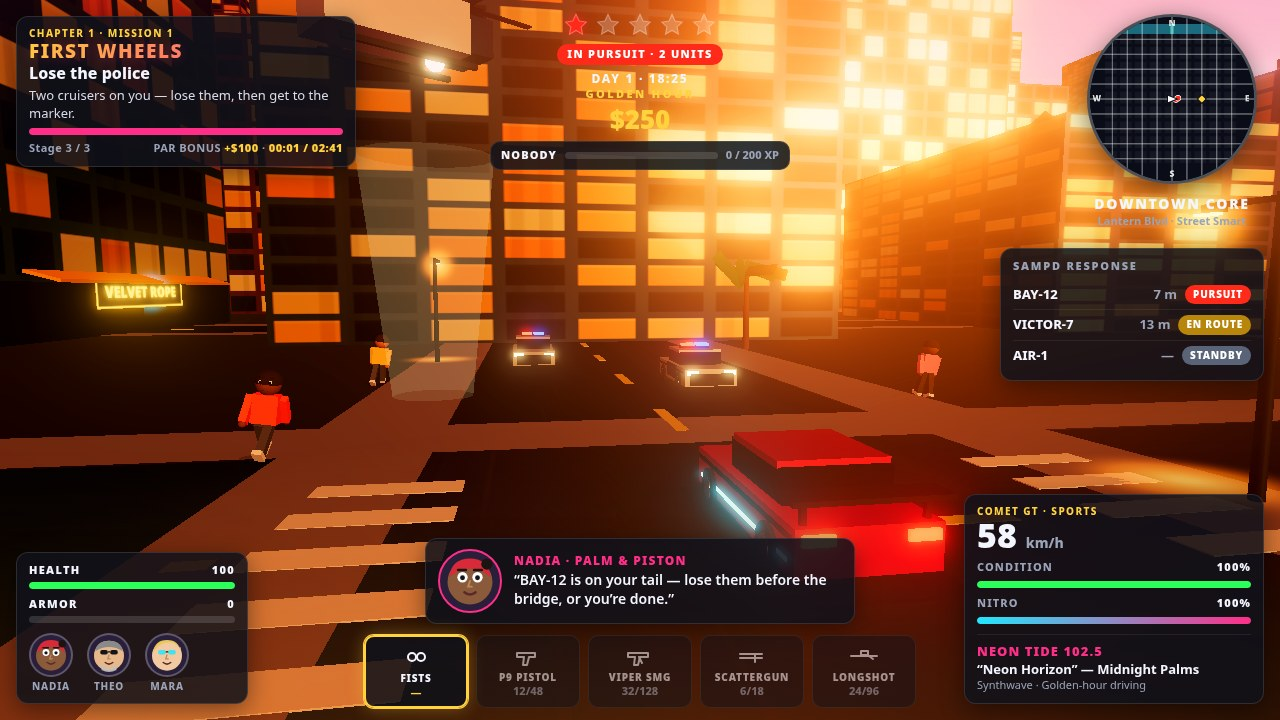
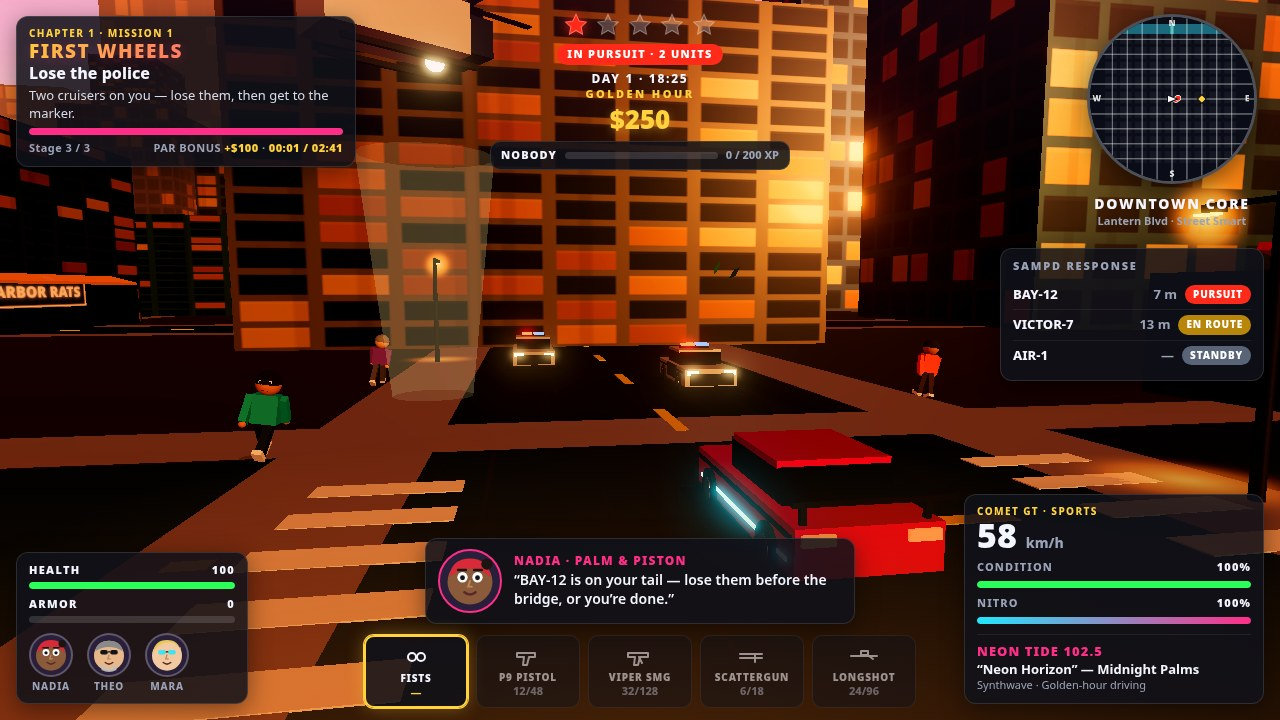
Calm the building lights (Mu feedback 20:35, recording 01a1f3e5)
Lit windows were near-white gold and bloomed into a blazing wall that
overpowered the action. Fix, keeping the golden-hour look:
- windowTexture: lit panes dimmed to muted ambers (#c98a3d etc.),
  white highlight strip 0.25 -> 0.08
- lit fractions cut by ~a third (facades 0.4-0.6 -> 0.28-0.38,
  Glass Spire 0.65 -> 0.4, skyline 0.35 -> 0.22)
- bloom threshold 0.5 -> 0.8 (windows stop blooming), strength
  0.32 -> 0.22, radius 0.72 -> 0.55; sun / muzzle flash / police
  lights still bloom
- neon sign emissives + glow sprites calmed (shop signs 1.4 -> 0.9,
  SAN AMARO 1.8 -> 1.1, LIFT BRIDGE 1.6 -> 1.1, spire tip 2 -> 1.3,
  bridge lamps 3 -> 2, street lamps 2.4 -> 1.6)
Sun, sky, exposure and warm lights untouched. 4 shots retaken,
0 console errors, HUD inside frame at 1280x720 and 1920x1080.

diff --git a/game/src/city.js b/game/src/city.js
@@ -40,9 +40,11 @@ function windowTexture(base, lit) {
         const isLit = rand() < lit;
         const px = x * cw + 3, py = y * ch + 4;
         if (isLit) {
-          const warm = pick(['#ffd27a', '#ffb84d', '#ffe9a8', '#ff9a3d']);
+          // Calm amber: dimmed so lit windows read as warm rooms, not a
+          // blazing wall (the old near-white golds blew out under bloom).
+          const warm = pick(['#c98a3d', '#b87a2e', '#d9a55a', '#a86a2a']);
           g.fillStyle = warm; g.fillRect(px, py, cw - 6, ch - 8);
-          g.fillStyle = 'rgba(255,255,255,.25)';
+          g.fillStyle = 'rgba(255,255,255,.08)';
           g.fillRect(px, py, cw - 6, 3);
         } else {
           g.fillStyle = 'rgba(8,12,26,.85)'; g.fillRect(px, py, cw - 6, ch - 8);
@@ -170,11 +172,11 @@ function makeLamp(x, z, parent) {
   const arm = box(1.4, 0.1, 0.1, MAT.lampPole, 0.6, 5.1, 0, g);
   const head = box(0.5, 0.14, 0.24, MAT.lampPole, 1.25, 5.05, 0, g);
   const bulb = new THREE.Mesh(new THREE.BoxGeometry(0.4, 0.06, 0.18),
-    new THREE.MeshStandardMaterial({ color: 0xffe9a8, emissive: 0xffc95e, emissiveIntensity: 2.4 }));
+    new THREE.MeshStandardMaterial({ color: 0xffe9a8, emissive: 0xffc95e, emissiveIntensity: 1.6 }));
   bulb.position.set(1.25, 4.96, 0); g.add(bulb);
-  addGlow(g, 1.25, 4.9, 0, 2.6, glowTexWarm);
+  addGlow(g, 1.25, 4.9, 0, 2, glowTexWarm);
   const pool = new THREE.Mesh(new THREE.CircleGeometry(2.6, 20),
-    new THREE.MeshBasicMaterial({ map: glowTexWarm, transparent: true, blending: THREE.AdditiveBlending, depthWrite: false, opacity: 0.5 }));
+    new THREE.MeshBasicMaterial({ map: glowTexWarm, transparent: true, blending: THREE.AdditiveBlending, depthWrite: false, opacity: 0.3 }));
   pool.rotation.x = -Math.PI / 2; pool.position.set(1.25, 0.06, 0); g.add(pool);
   g.position.set(x, 0, z);
   parent.add(g);
@@ -302,14 +304,14 @@ export function buildCity(scene) {
     const beam = box(2.2, 1.8, 30, MAT.steelDark, sx, 26.5, BRIDGE.z, bridge);
     // red warning light on top
     const lamp = new THREE.Mesh(new THREE.SphereGeometry(0.5, 8, 6),
-      new THREE.MeshStandardMaterial({ color: 0xff2a1a, emissive: 0xff2a1a, emissiveIntensity: 3 }));
+      new THREE.MeshStandardMaterial({ color: 0xff2a1a, emissive: 0xff2a1a, emissiveIntensity: 2 }));
     lamp.position.set(sx, 28, BRIDGE.z); bridge.add(lamp);
-    addGlow(bridge, sx, 28, BRIDGE.z, 5, glowTexPink);
+    addGlow(bridge, sx, 28, BRIDGE.z, 3.5, glowTexPink);
   }
   // crossbeam sign: "LIFT BRIDGE" in neon
   const signTex = signTexture('LIFT BRIDGE', '#22e6ff', '#0d1520');
   const sign = new THREE.Mesh(new THREE.PlaneGeometry(11, 2.75),
-    new THREE.MeshStandardMaterial({ map: signTex, emissive: 0xffffff, emissiveMap: signTex, emissiveIntensity: 1.6, transparent: true }));
+    new THREE.MeshStandardMaterial({ map: signTex, emissive: 0xffffff, emissiveMap: signTex, emissiveIntensity: 1.1, transparent: true }));
   sign.position.set(0, 24.5, BRIDGE.z + 15.2); bridge.add(sign);
   // cables (thin cylinders, diagonal)
   for (const sx of [-8.5, 8.5]) {
@@ -321,11 +323,14 @@ export function buildCity(scene) {
   refs.bridge = bridge;
 
   // ---- buildings (blocks) ----
+  // Fewer lit windows (was 0.4-0.6): the old density made whole facades
+  // blaze. ~1 in 3 windows lit now, so buildings read as dark masses
+  // with scattered warm rooms.
   const facades = [
-    { base: '#3a4a63', lit: 0.55 }, { base: '#5a4632', lit: 0.45 },
-    { base: '#6b3a44', lit: 0.5 }, { base: '#2f3a4a', lit: 0.6 },
-    { base: '#7a6a55', lit: 0.4 }, { base: '#4a3a5a', lit: 0.5 },
-    { base: '#33505a', lit: 0.55 },
+    { base: '#3a4a63', lit: 0.35 }, { base: '#5a4632', lit: 0.3 },
+    { base: '#6b3a44', lit: 0.32 }, { base: '#2f3a4a', lit: 0.38 },
+    { base: '#7a6a55', lit: 0.28 }, { base: '#4a3a5a', lit: 0.32 },
+    { base: '#33505a', lit: 0.35 },
   ];
   const shopSigns = [
     ['NEON COLA', '#ff2e88'], ['TACO PALACE', '#ff5a3d'], ['DONUT DRIVE', '#ff9a3d'],
@@ -337,16 +342,16 @@ export function buildCity(scene) {
   let signIdx = 0;
   // Glass Spire (tallest tower, finale heist site) at (120,-120)
   const spire = new THREE.Group();
-  const spireTex = windowTexture('#2a3a55', 0.65);
+  const spireTex = windowTexture('#2a3a55', 0.4);
   const spireBody = new THREE.Mesh(new THREE.BoxGeometry(34, 88, 34),
     new THREE.MeshStandardMaterial({ map: spireTex, roughness: 0.25, metalness: 0.6, envMapIntensity: 1.2 }));
   spireBody.position.y = 44; spire.add(spireBody);
   const spireTop = new THREE.Mesh(new THREE.BoxGeometry(20, 10, 20), MAT.glass);
   spireTop.position.y = 93; spire.add(spireTop);
   const spireTip = new THREE.Mesh(new THREE.CylinderGeometry(0.4, 1.2, 12, 6),
-    new THREE.MeshStandardMaterial({ color: 0xff2e88, emissive: 0xff2e88, emissiveIntensity: 2 }));
+    new THREE.MeshStandardMaterial({ color: 0xff2e88, emissive: 0xff2e88, emissiveIntensity: 1.3 }));
   spireTip.position.y = 104; spire.add(spireTip);
-  addGlow(spire, 0, 104, 0, 9, glowTexPink);
+  addGlow(spire, 0, 104, 0, 6, glowTexPink);
   spire.position.set(120, 0, -120); scene.add(spire);
 
   // Regular blocks: one building per block, with facade variety.
@@ -393,9 +398,9 @@ export function buildCity(scene) {
           0, 2.1, d / 2 + 0.2, b);
         const st = signTexture(name, col, '#0d0f18');
         const sp = new THREE.Mesh(new THREE.PlaneGeometry(Math.min(14, w * 0.7), 2.6),
-          new THREE.MeshStandardMaterial({ map: st, emissive: 0xffffff, emissiveMap: st, emissiveIntensity: 1.4, transparent: true }));
+          new THREE.MeshStandardMaterial({ map: st, emissive: 0xffffff, emissiveMap: st, emissiveIntensity: 0.9, transparent: true }));
         sp.position.set(0, 3.4, d / 2 + 0.65); b.add(sp);
-        addGlow(b, 0, 3.4, d / 2 + 1.2, 5, col === '#ff2e88' || col === '#c86bff' || col === '#ff2ec8' ? glowTexPink : glowTexCyan);
+        addGlow(b, 0, 3.4, d / 2 + 1.2, 3.5, col === '#ff2e88' || col === '#c86bff' || col === '#ff2ec8' ? glowTexPink : glowTexCyan);
         // awning (sloped, striped by colour)
         const aw = box(w * 0.7, 0.25, 2.4, pick(awnMats), 0, 4.6, d / 2 + 1.2, b);
         aw.rotation.x = 0.28;
@@ -417,7 +422,7 @@ export function buildCity(scene) {
   fwater.position.y = 1.25; plaza.add(fwater);
   const jet = new THREE.Mesh(new THREE.CylinderGeometry(0.5, 0.8, 2.4, 8), MAT.concrete);
   jet.position.y = 2.2; plaza.add(jet);
-  addGlow(plaza, 0, 3.4, 0, 4, glowTexCyan);
+  addGlow(plaza, 0, 3.4, 0, 3, glowTexCyan);
   plaza.position.set(-60, 0, 60); scene.add(plaza);
 
   // ---- SAN AMARO sign (big, glowing, on a frame near the canal) ----
@@ -435,9 +440,9 @@ export function buildCity(scene) {
     g.fillText('SAN AMARO', w / 2, h / 2 + 6);
   });
   const san = new THREE.Mesh(new THREE.PlaneGeometry(26, 6.5),
-    new THREE.MeshStandardMaterial({ map: sanTex, emissive: 0xffffff, emissiveMap: sanTex, emissiveIntensity: 1.8, transparent: true }));
+    new THREE.MeshStandardMaterial({ map: sanTex, emissive: 0xffffff, emissiveMap: sanTex, emissiveIntensity: 1.1, transparent: true }));
   san.position.set(0, 13, 0); signG.add(san);
-  addGlow(signG, 0, 13, 0, 16, glowTexCyan);
+  addGlow(signG, 0, 13, 0, 10, glowTexCyan);
   signG.position.set(-52, 0, -248);
   signG.rotation.y = 0.35;
   scene.add(signG);
@@ -477,7 +482,7 @@ export function buildCity(scene) {
     const h = 40 + rand() * 130;
     const w = 26 + rand() * 30;
     const b = new THREE.Mesh(new THREE.BoxGeometry(w, h, w),
-      new THREE.MeshStandardMaterial({ map: windowTexture('#1c2438', 0.35), roughness: 0.6, metalness: 0.3 }));
+      new THREE.MeshStandardMaterial({ map: windowTexture('#1c2438', 0.22), roughness: 0.6, metalness: 0.3 }));
     b.position.set(Math.cos(a) * r, h / 2 - 2, Math.sin(a) * r);
     skyline.add(b);
   }

diff --git a/game/src/main.js b/game/src/main.js
@@ -106,9 +106,12 @@ try {
   if (EffectComposer && UnrealBloomPass) {
     composer = new EffectComposer(renderer);
     composer.addPass(new RenderPass(scene, camera));
+    // Calm bloom: the old threshold (0.5) let every lit window bloom into
+    // a glowing wall. 0.8 keeps the bloom on the sun / muzzle flash /
+    // police lights only, so the buildings stay readable at golden hour.
     const bloom = new UnrealBloomPass(
       new THREE.Vector2(Math.floor(window.innerWidth / 2), Math.floor(window.innerHeight / 2)),
-      0.32, 0.72, 0.5);
+      0.22, 0.55, 0.8);
     composer.addPass(bloom);
     composer.addPass(new OutputPass());
   }
